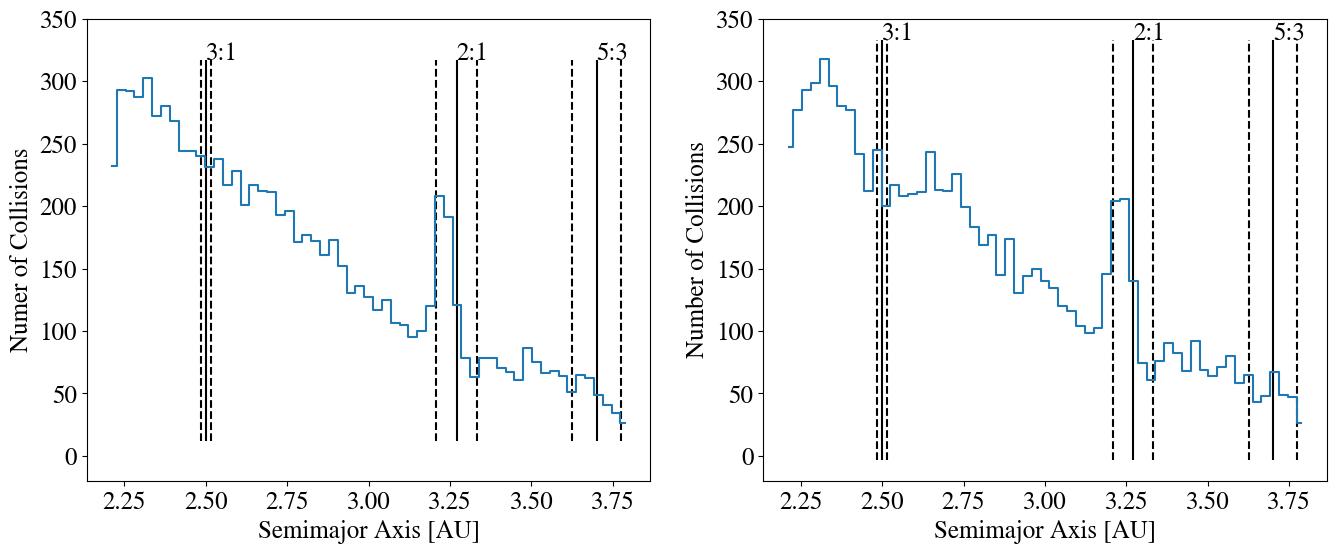
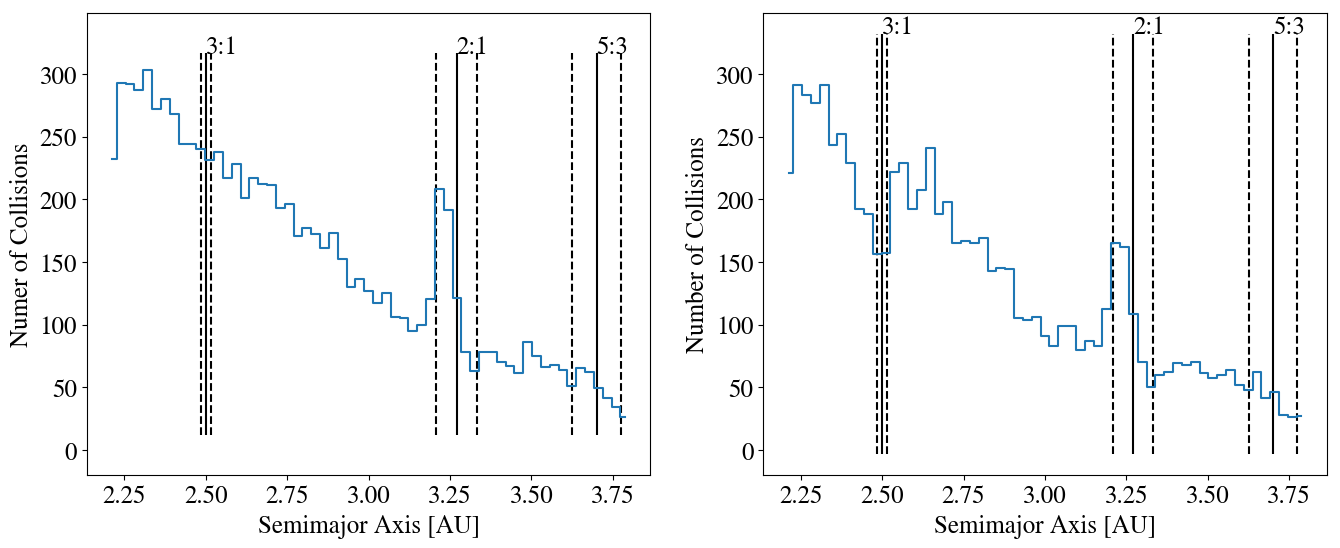
Add discussion of figure 4, update plots with newly run EJ simulation

diff --git a/main.tex b/main.tex
@@ -150,7 +150,9 @@ The location of the mean motion resonances with Jupiter is most clearly visible 
 
 In the EJ simulation, the eccentricity remains enhanced between the MMRs due to the secular forcing effect of Jupiter. This also has the consequence of making the eccentricity spikes due to the 5:2 and (what's the MMR at 3.6 AU?) more prominent. The reason for this is that the libration width of a resonance generally scales with the eccentricity of the particle being perturbed. In a secularly forced disk, the eccentricity of particles affected by resonance is larger, which increases the resonance width and allows a larger region of the disk to be affected by a given resonance. Also visible in the EJ snapshot in figure \ref{fig:ae} are eccentricity spikes that extend below the background eccentricity distribution. This is a clear sign that planetesimals in the MMRs are librating. The phase of the libration is set by the resonant argument (maybe I should add an equation for the resonant argument in section 2).
 
-An additional effect that the MMRs have on the orbits of planetesimals is visible in figure \ref{fig:long_ph}. This shows the semimajor axis distribution of planetesimals as a function of longitude of perihelion in the EJ simulation. As discussed in section \ref{sec:sec_force}, the eccentric orbit of Jupiter causes the perihelia of the planetesimal orbits to align with the giant perturber. The mean motion resonances, however, drive the rather vigorous precession of the orbits of planetesimals in their vicinity. Because the timescale of the resonances is much shorter than the timescale for secular forcing, the longitudinal orientations of orbits close to the MMRs are effectively randomized. The dashed horizontal lines in figure \ref{fig:long_ph} indicate the libration width of the MMRs at the forced eccentricity (given by the magnitude of equation \ref{eq:eforced}. The size of the zone of vigorous precession roughly matches the libration width of the MMRs. As will be discussed in the next session, the relative longitudinal orientation of the orbits has important implications for where and when planetesimal collisions occur at a given semimajor axis.
+An additional effect that the MMRs have on the orbits of planetesimals is visible in figure \ref{fig:long_ph}. This shows the semimajor axis distribution of planetesimals as a function of longitude of perihelion in the EJ simulation. As discussed in section \ref{sec:sec_force}, the eccentric orbit of Jupiter causes the perihelia of the planetesimal orbits to align with the giant perturber. The mean motion resonances, however, drive the rather vigorous precession of the orbits of planetesimals in their vicinity. Because the timescale of the resonances is much shorter than the timescale for secular forcing, the longitudinal orientations of orbits close to the MMRs are effectively randomized. The dashed horizontal lines in figure \ref{fig:long_ph} indicate the libration width of the MMRs at the forced eccentricity (given by the magnitude of equation \ref{eq:eforced}. The size of the zone of vigorous precession roughly matches the libration width of the MMRs. As will be discussed shortly, the relative longitudinal orientation of the orbits has important implications for where and when planetesimal collisions occur at a given semimajor axis. Not shown is the longitude of perihelia and semimajor axes of the bodies in the CJ simulation. Due to the lack of secular forcing, the orientations of the orbits of these bodes are effectively random.
+
+Next, we move on to examine the statistics of the collisions that occur. Figure \ref{fig:coll_hist_a} shows the distribution of semimajor axes of every collision that is resolved. Here, the semimajor axis of a collision is defined as the semimajor axis of the first body participating in the collision at the moment that it occurs. During a collision, the determination of which body is first and which is second is determined by the collision search tree in {\sc ChaNGa}. To ensure that this does not introduce any bias, we also constructed figure \ref{fig:coll_hist_a} using the orbital parameters of the second body and found no qualitative difference. By examining the semimajor axis distribution of the collisions, it is easy to see how the MMRs affect the collision rates. The dashed lines again represent the libration width of each resonance and are meant to show its range of influence. In both the circular and eccentric Jupiter simulations, the collision rate is clearly enhanced interior to the 2:1 MMR. Interestingly, the 3:1 MMR only appears to have a noticeable influence on the collision rate in the EJ simulation. (Better check if this is still true when I rerun CJ with smaller steps). In both cases, the 5:3 MMR appears to slightly enhance the collision rate interior to the nominal resonance location. It is important to keep in mind, however that the libration width of sufficiently eccentric particles near the 5:3 MMR may extend beyond the outer edge of the disk and introduce nonphysical boundary effects.
 
 Outline for this section:
 \begin{itemize}

diff --git a/makeFig.py b/makeFig.py
@@ -83,11 +83,19 @@ coll_dist_c1 = np.sqrt(x_c_c1**2 + y_c_c1**2)
 a_c_c1, e_c_c1, inc_c_c1, Omega_c_c1, omega_c_c1, M_c_c1 = \
     OrbitTools.cart2kepX(x_c_c1, y_c_c1, z_c_c1, vx_c_c1, vy_c_c1, vz_c_c1, mc_c, m1_c)
 x_c_c2, y_c_c2, z_c_c2 = coll_c['x2x'], coll_c['x2y'], coll_c['x2z']
-vx_c_c2, vy_c_c2, vz_c_c2 = coll_c['v2x'], coll_c['v2y'], coll_c['v2z']
+#vx_c_c2, vy_c_c2, vz_c_c2 = coll_c['v2x'], coll_c['v2y'], coll_c['v2z']
+
+# Oops, the ChaNGa output for collider 2's velocity is messed up. Fortunately, we can
+# get the correct value from v1 and vNew
+vx_c_c2 = (coll_c['m1']*coll_c['v1x'] - (coll_c['m1'] + coll_c['m2'])*coll_c['vNewx'])/coll_c['m2']
+vy_c_c2 = (coll_c['m1']*coll_c['v1y'] - (coll_c['m1'] + coll_c['m2'])*coll_c['vNewy'])/coll_c['m2']
+vz_c_c2 = (coll_c['m1']*coll_c['v1z'] - (coll_c['m1'] + coll_c['m2'])*coll_c['vNewz'])/coll_c['m2']
+
 m2_c = coll_c['m2']
 coll_dist_c2 = np.sqrt(x_c_c2**2 + y_c_c2**2)
 a_c_c2, e_c_c2, inc_c_c2, Omega_c_c2, omega_c_c2, M_c_c2 = \
     OrbitTools.cart2kepX(x_c_c2, y_c_c2, z_c_c2, vx_c_c2, vy_c_c2, vz_c_c2, mc_c, m2_c)
+
 coll_e = pd.read_csv(path + 'hkshiftfull/collisions')
 coll_e = coll_e[coll_e['time']/(2*np.pi) <= 10000]
 mc_e = s0_e['mass'][0]
@@ -98,7 +106,13 @@ coll_dist_e1 = np.sqrt(x_c_e1**2 + y_c_e1**2)
 a_c_e1, e_c_e1, inc_c_e1, Omega_c_e1, omega_c_e1, M_c_e1 = \
     OrbitTools.cart2kepX(x_c_e1, y_c_e1, z_c_e1, vx_c_e1, vy_c_e1, vz_c_e1, mc_e, m1_e)
 x_c_e2, y_c_e2, z_c_e2 = coll_e['x2x'], coll_e['x2y'], coll_e['x2z']
-vx_c_e2, vy_c_e2, vz_c_e2 = coll_e['v2x'], coll_e['v2y'], coll_e['v2z']
+#vx_c_e2, vy_c_e2, vz_c_e2 = coll_e['v2x'], coll_e['v2y'], coll_e['v2z']
+
+# Need to fix the velocity here too
+vx_c_e2 = (coll_e['m1']*coll_e['v1x'] - (coll_e['m1'] + coll_e['m2'])*coll_e['vNewx'])/coll_e['m2']
+vy_c_e2 = (coll_e['m1']*coll_e['v1y'] - (coll_e['m1'] + coll_e['m2'])*coll_e['vNewy'])/coll_e['m2']
+vz_c_e2 = (coll_e['m1']*coll_e['v1z'] - (coll_e['m1'] + coll_e['m2'])*coll_e['vNewz'])/coll_e['m2']
+
 m2_e = coll_e['m2']
 coll_dist_e2 = np.sqrt(x_c_e2**2 + y_c_e2**2)
 a_c_e2, e_c_e2, inc_c_e2, Omega_c_e2, omega_c_e2, M_c_e2 = \
@@ -223,8 +237,8 @@ def make_m_hist():
 	if not clobber and os.path.exists(file_str):
 		return
 
-	a11, a12 = 3.2, 3.34
-	a21, a22 = 2.9, 3.0
+	a11, a12 = 3.22, 3.33
+	a21, a22 = 2.7, 2.8
 
 	def ang_diff(ang1, ang2):
 		return ((ang1 - ang2) + np.pi)%(2*np.pi) - np.pi
@@ -238,7 +252,7 @@ def make_m_hist():
 	ax[0,0].set_xlabel('Mean Anomaly')
 	ax[0,0].set_ylabel('Number of Collisions')
 	ax[0,0].set_ylim(0, np.max(hist)*1.1)
-	ax[0,0].set_title(str(a11) + ' < a < ' + str(a12))
+	ax[0,0].set_title(str(a11) + ' < a < ' + str(a12) + ' (' + str(len(M_c_e1[mask])) + ' coll)')
 
 	mask = np.logical_and(a_c_e1 > a21, a_c_e1 < a22)
 	hist, bins = np.histogram(M_c_e1[mask], bins=np.linspace(0, 2*np.pi, num=20))
@@ -247,7 +261,7 @@ def make_m_hist():
 	ax[0,1].set_xlabel('Mean Anomaly')
 	ax[0,1].set_ylabel('Number of Collisions')
 	ax[0,1].set_ylim(0, np.max(hist)*1.1)
-	ax[0,1].set_title(str(a21) + ' < a < ' + str(a22))
+	ax[0,1].set_title(str(a21) + ' < a < ' + str(a22) + ' (' + str(len(M_c_e1[mask])) + ' coll)')
 
 	mask = np.logical_and(a_c_e1 > a11, a_c_e1 < a12)
 	hist, bins = np.histogram(ang_diff(M_c_e1[mask], M_c_e2[mask]), 
